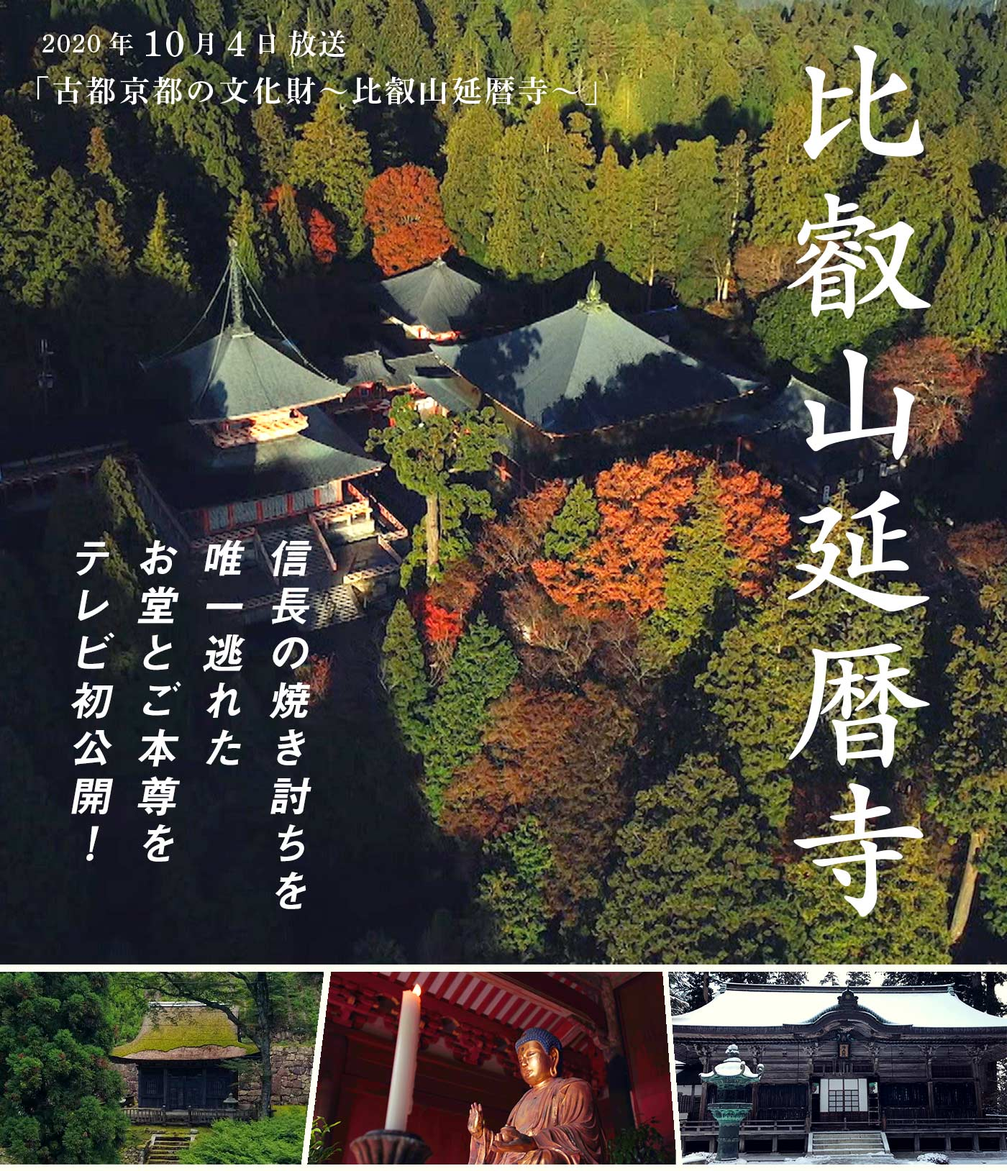
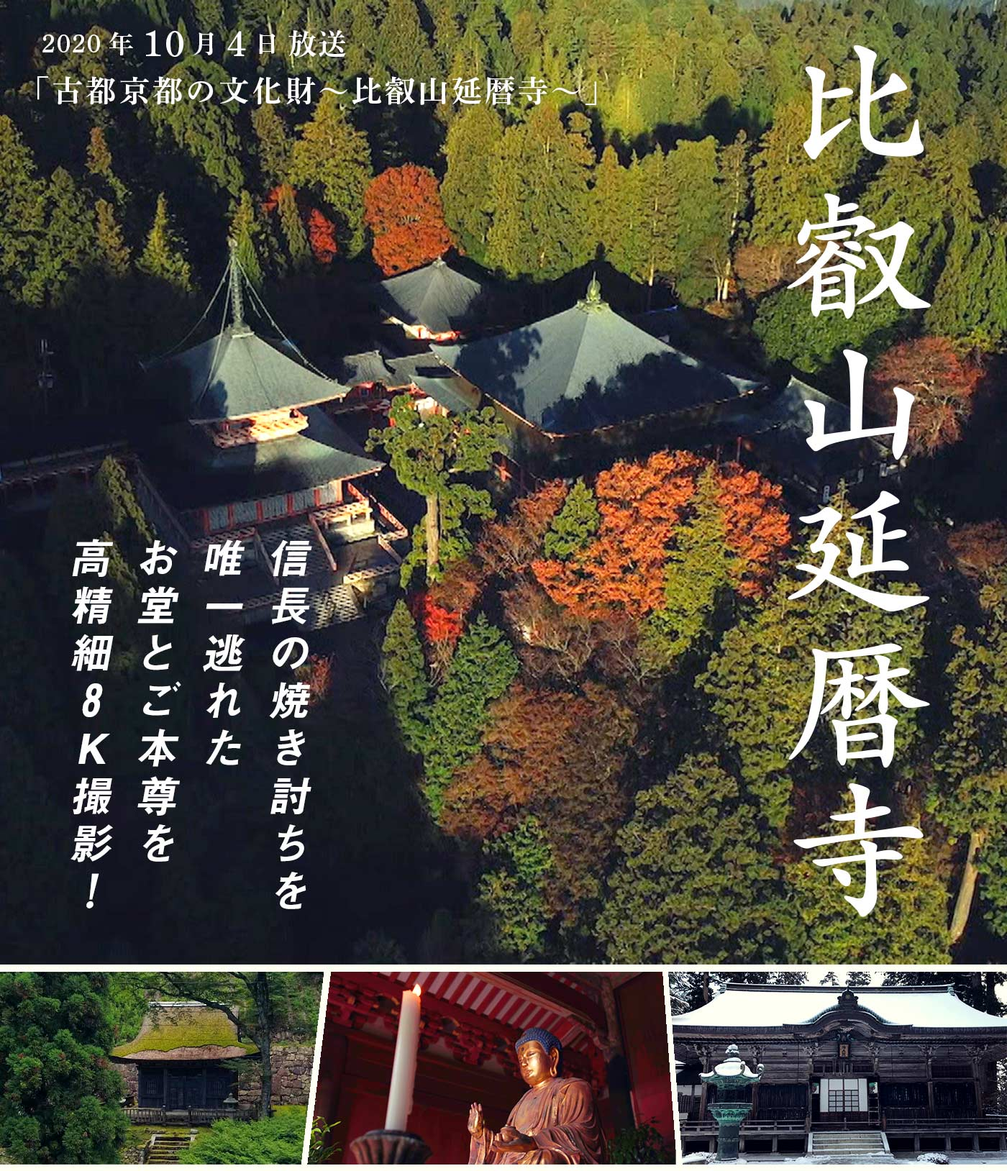
[update2010] modify done

Changed region(s): [[0.0614, 0.4607, 0.1229, 0.7371]]

diff --git a/feature/2020/202010_02.html b/feature/2020/202010_02.html
@@ -81,7 +81,7 @@
     </div><!-- featureWideImage -->
 
      <div class="featureSquareWrapper">
-        <p class="squareCaption left">焼き討ちを唯一免れ現存するお堂「瑠璃堂」。通常は非公開で、この番組でテレビ初公開となる貴重な映像です。</p>
+        <p class="squareCaption left">焼き討ちを唯一免れ現存するお堂「瑠璃堂」。通常は非公開ですが特別に撮影させていただきました。</p>
         <div class="featureSquareArea squareRight">
             <div class="lazy squareImage" data-img="../../img/feature/2020/2010/enryakuji2_sq2.jpg">
             </div><!-- squareImage -->
@@ -130,7 +130,7 @@
         <p class="featureAsk">──いにしえのお堂が最新技術の高精細撮影でカメラに収められるのはすごいですね。番組が楽しみです。最後にお二人から視聴者の皆さんへメッセージをお願いします。</p>
         <p class="featureAns">宮口：長期の取材の中で最も大変だったのは、雪の比叡山の撮影でした。暖冬だったため、「果たして撮れるのか？」と毎日のように天気予報を注視して、やっと出た雪の予報をもとに取材に向かいました。しかし、手前の京都や滋賀の大津あたりでは、まったく雪が降っておらず……。不安だったのですが、麓から山に上がっていくと、その世界は、次第に雪に包まれていきました。紅葉の時期とは異なる、静寂に包まれた雪の比叡山、ぜひお楽しみいただければと思います。</p>
 
-        <p class="featureAns">日下：今回の取材では、さまざまな空撮を駆使しました。ヘリに装着した安定装置と8Kカメラを組み合わせて、京都、比叡山、琵琶湖を一望する滑らかな映像を収めることができました。また通常のドローンでの空撮はもちろん、超小型のドローンを使って、木々の間や、修復作業の足場の間をすり抜けるような迫力の映像をふんだんに使用しています。見たことのないような比叡山延暦寺をお届けしますので、ぜひご覧ください。</p>
+        <p class="featureAns">日下：今回の取材では、さまざまな空撮を駆使しました。ヘリに装着した安定装置と8Kカメラを組み合わせて、京都、比叡山、琵琶湖を一望する滑らかな映像を収めることができました。木々の間や、修復作業の足場の間をすり抜けるような迫力の映像をふんだんに使用しています。見たことのないような比叡山延暦寺をお届けしますので、ぜひご覧ください。</p>
     </div><!-- featureInterviewArea -->
 
     <div class="featureWideImage lazy" data-img="../../img/feature/2020/2010/enryakuji2_05.jpg">
@@ -147,7 +147,7 @@
         <noscript>Javascript を有効にしてください</noscript>
         <img src="../../img/feature/fullsize_dammy.gif" onContextmenu="return false" alt="" class="feature_dammy" />
     </div><!-- featureWideImage -->
-    <p class="wideCaption">ヘリからも高精細8K撮影を行い、京都と比叡山、琵琶湖を俯瞰。また、ドローンを駆使した通常では難しい視点の映像の数々もお届けします。</p>
+    <p class="wideCaption">ヘリからも高精細8K撮影を行い、京都と比叡山、琵琶湖を俯瞰。また、通常では難しい視点の映像の数々もお届けします。</p>
   
 
  

diff --git a/feature/2020/202010_01.html b/feature/2020/202010_01.html
@@ -34,7 +34,7 @@
 	<div class="mainCoverArea2010">
 		<h2 class="featureAlt">2020年10月4日放送「古都京都の文化財～比叡山延暦寺～」</h2>
 	    <img src="../../img/feature/2020/2010/headerimage_dammy.gif" onContextmenu="return false" alt="" class="feature_dammy"/>
-	    <h3 class="featureAlt">信長の焼き討ちを唯一逃れたお堂とご本尊をテレビ初公開！</h3>
+	    <h3 class="featureAlt">信長の焼き討ちを唯一逃れたお堂とご本尊を高精細8K撮影！</h3>
 	    <p class="alt">京都の北東に位置する比叡山延暦寺。日本の歴史に深く関わる、この霊峰を、今回の番組では長期取材とさまざまな特別な撮影でお見せします。取材を担当した日下ディレクターと宮口ディレクターのお二人に話を聞きました。</p>
 	</div><!-- mainCoverArea2010 -->
 
